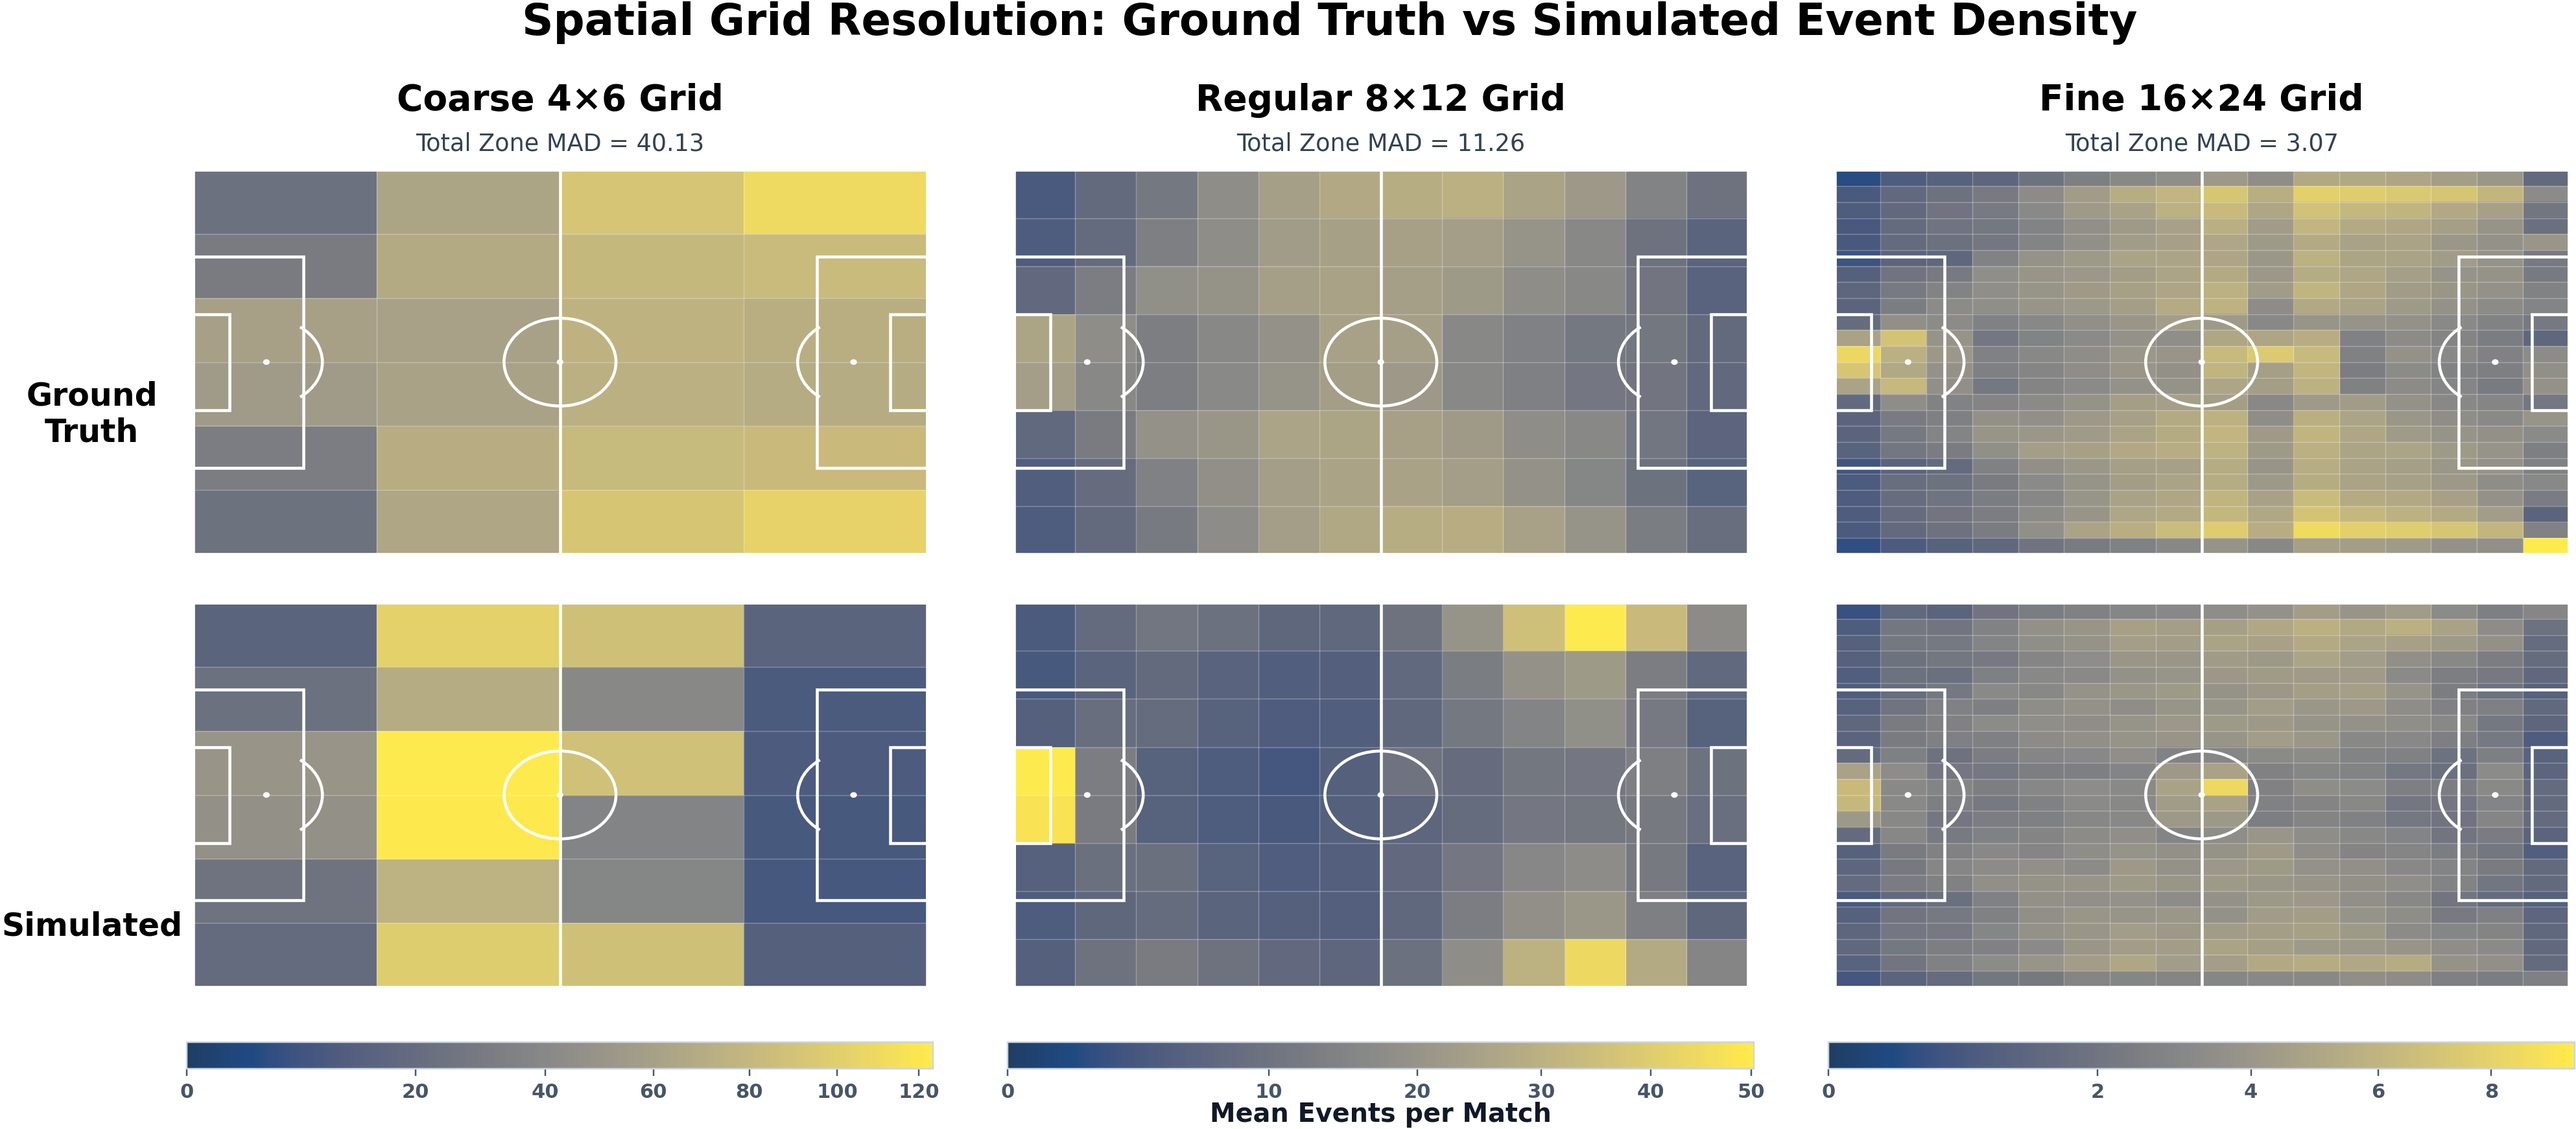
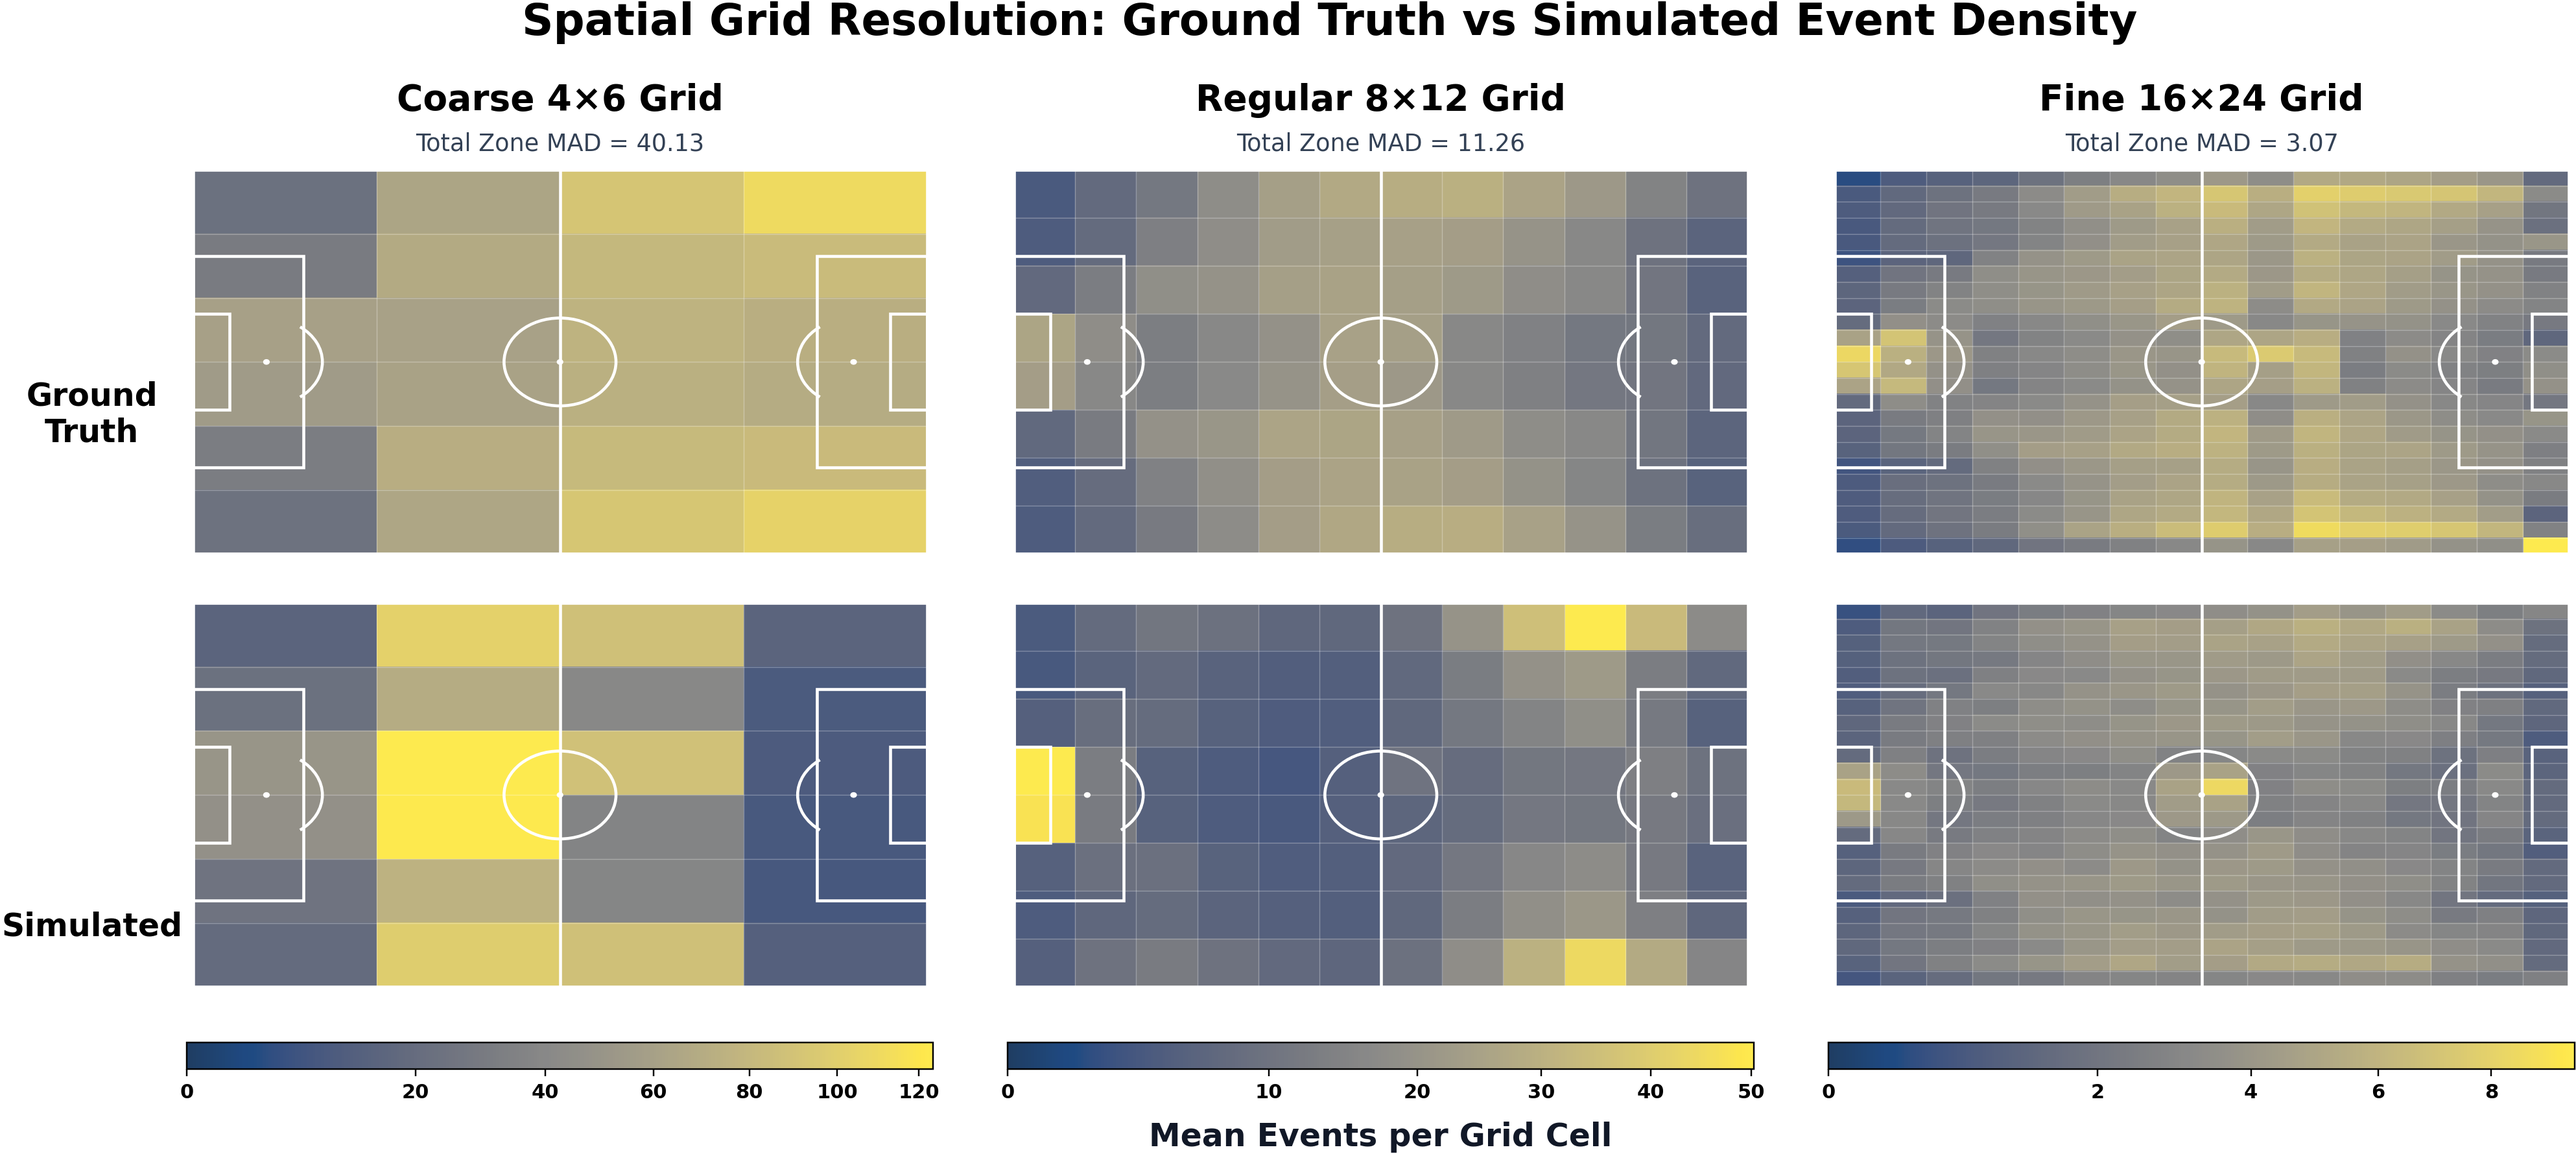
Refine E03 grid-scale axis title

diff --git a/charts/E03_spatial_grid/build_chart.py b/charts/E03_spatial_grid/build_chart.py
@@ -63,6 +63,6 @@ for col in range(3):
  cb.ax.tick_params(labelsize=10)
  colorbars.append(cb)
 fig.canvas.draw()
-scale_y=min(cb.ax.get_position().y0 for cb in colorbars) - .025
-fig.text(.52,scale_y,'Mean Events per Match',ha='center',va='top',fontsize=13,fontweight='bold',color='#111827')
+scale_y=min(cb.ax.get_position().y0 for cb in colorbars) - .040
+fig.text(.52,scale_y,'Mean Events per Grid Cell',ha='center',va='top',fontsize=16,fontweight='bold',color='#111827')
 out=HERE/'plot.png'; fig.savefig(out,dpi=220,facecolor='none',transparent=True,bbox_inches='tight',pad_inches=.01); plt.close(fig); print(out)
